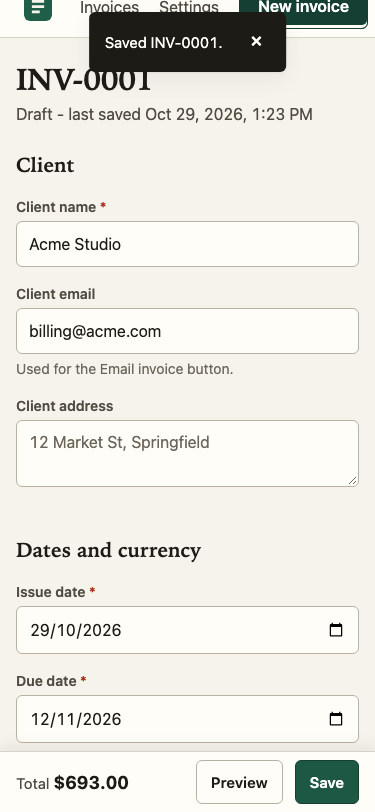
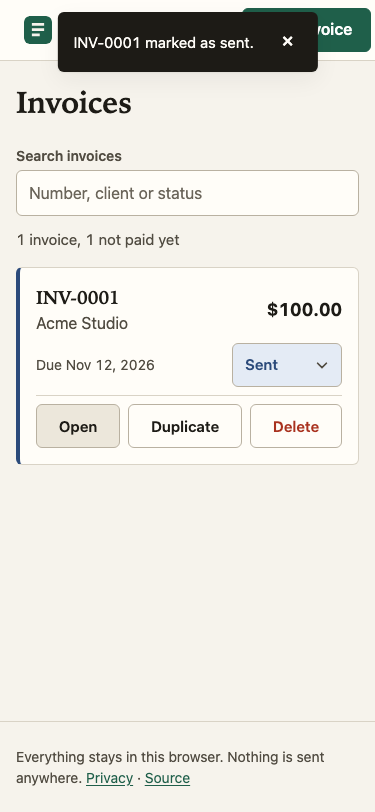
fix: QA round 2 - toast under the header on phones, draft survives restore and instant navigation, no stale draft after a fast save, settings form stays alive after a failed save, long words wrap in the invoice

diff --git a/js/app.js b/js/app.js
@@ -88,6 +88,7 @@
       var active = r.view === 'editor' ? key === 'new' : key === r.view;
       if (active) a.setAttribute('aria-current', 'page'); else a.removeAttribute('aria-current');
     });
+    if (editor && draftTimer) saveDraftNow();
     editor = null;
     settingsForm = null;
     if (r.view === 'editor') renderEditor(r.id);
@@ -477,6 +478,10 @@
     state.draft = { forId: editor.id, invoice: Calc.deepCopy(editor.invoice), savedAt: Date.now() };
     persist();
   }
+  function cancelDraftSave() {
+    clearTimeout(draftTimer);
+    draftTimer = null;
+  }
   function scheduleDraftSave() {
     clearTimeout(draftTimer);
     draftTimer = setTimeout(saveDraftNow, 250);
@@ -551,7 +556,7 @@
       state.invoices.push(inv);
     }
     state.draft = null;
-    clearTimeout(draftTimer);
+    cancelDraftSave();
     editor.id = inv.id;
     var saved = persist();
     if (saved) toast('Saved ' + inv.number + '.');
@@ -739,12 +744,14 @@
       invoicePrefix: String(s.invoicePrefix || ''),
       nextNumber: parseInt(s.nextNumber, 10)
     };
-    settingsForm = null;
     if (persist()) {
+      settingsForm = null;
       toast('Settings saved.');
       renderSettings();
       var saveBtn = $('#settings-form button[type=submit]');
       if (saveBtn) saveBtn.focus();
+    } else {
+      settingsForm.settings = Calc.deepCopy(state.settings);
     }
   }
 
@@ -763,11 +770,17 @@
   }
 
   function applyBackup(data) {
+    var draft = state.draft;
+    var keepDraft = draft && (draft.forId === null || data.invoices.some(function (i) { return i.id === draft.forId; }));
+    data.draft = keepDraft ? draft : null;
     state = data;
     settingsForm = null;
     pendingDelete = null;
-    if (persist()) {
-      renderSettings();
+    var ok = persist();
+    renderSettings();
+    var h = $('h1', main);
+    if (h) h.focus();
+    if (ok) {
       toast('Restored ' + data.invoices.length + (data.invoices.length === 1 ? ' invoice' : ' invoices') + ' and your settings.');
     }
   }
@@ -797,7 +810,7 @@
       if (n || businessSetUp()) {
         openDialog({
           title: 'Replace your current data?',
-          text: 'Restoring this backup replaces your settings' + (n ? ' and the ' + n + (n === 1 ? ' invoice' : ' invoices') + ' in this browser' : '') + ' with the ' + data.invoices.length + (data.invoices.length === 1 ? ' invoice' : ' invoices') + ' in the file. Download a backup of the current data first if you might need it.',
+          text: 'This browser holds your settings' + (n ? ' and ' + n + (n === 1 ? ' invoice' : ' invoices') : ' and no invoices') + '. Restoring replaces them with the backup (' + data.invoices.length + (data.invoices.length === 1 ? ' invoice' : ' invoices') + ' and its settings). An invoice you are still writing is kept. Download a backup of the current data first if you might need it.',
           confirmLabel: 'Replace with the backup',
           trigger: input
         }, function () { applyBackup(data); });
@@ -883,7 +896,7 @@
         break;
       }
       case 'scroll-preview': { var pt = $('.preview-title'); if (pt) { pt.scrollIntoView(); pt.focus({ preventScroll: true }); } break; }
-      case 'discard-draft': state.draft = null; persist(); render(); toast('Discarded the unsaved changes.'); break;
+      case 'discard-draft': cancelDraftSave(); state.draft = null; persist(); render(); toast('Discarded the unsaved changes.'); break;
       case 'print': ev.preventDefault(); printInvoice(); break;
       case 'copy-summary': copySummary(); break;
       case 'email':

diff --git a/css/styles.css b/css/styles.css
@@ -256,6 +256,7 @@ input[type="date"] { min-width: 0; }
 .doc-items th { font-size: 11px; font-weight: 700; text-transform: uppercase; letter-spacing: 0.08em; color: var(--ink-2); border-bottom: 1px solid #1d1b16; }
 .doc-items .num { text-align: right; white-space: nowrap; }
 .doc-items td:first-child { word-break: break-word; }
+.doc-from, .doc-billto, .doc-notes, .doc-foot { min-width: 0; overflow-wrap: anywhere; }
 .doc-empty { color: var(--ink-3); font-style: italic; }
 .doc-totals { display: flex; justify-content: flex-end; margin-bottom: var(--space-6); }
 .doc-totals dl { margin: 0; width: 100%; max-width: 280px; }
@@ -295,6 +296,7 @@ input[type="date"] { min-width: 0; }
 .toast-close { background: transparent; border: 0; color: var(--paper-2); font-size: 22px; line-height: 1; width: var(--control-h); height: var(--control-h); border-radius: var(--radius); cursor: pointer; }
 .toast-close:hover { background: rgba(255, 255, 255, 0.12); }
 .toast :focus-visible { outline-color: var(--paper-2); }
+@media (max-width: 899px) { .toast { top: calc(env(safe-area-inset-top, 0px) + 68px); } }
 @keyframes toast-in { from { opacity: 0; transform: translate(-50%, -8px); } to { opacity: 1; transform: translate(-50%, 0); } }
 
 /* Dialog */

diff --git a/scripts/qa-defects.py b/scripts/qa-defects.py
@@ -102,3 +102,60 @@ with open_page(375, 812) as (page, errors):
 
 fails = [k for k, v in results.items() if v.startswith("FAIL")]
 print("\nSUMMARY:", f"{len(results) - len(fails)}/{len(results)} pass", ("FAILS: " + ", ".join(fails)) if fails else "")
+
+# ---- Round 2 (D12-D19) ----
+def nav_free(page, label):
+    el = page.get_by_role("link", name=label).first
+    b = el.bounding_box()
+    hit = page.evaluate("([x,y]) => { var e = document.elementFromPoint(x, y); return e ? (e.closest('a') ? e.closest('a').textContent.trim() : e.tagName) : 'none'; }", [b["x"] + b["width"] / 2, b["y"] + b["height"] / 2])
+    return hit == label, hit
+
+with open_page(375, 812) as (page, errors):
+    setup(page)
+    page.wait_for_selector("#toast:not([hidden])"); page.evaluate("window.scrollTo(0, 0)")
+    ok, hit = nav_free(page, "Invoices"); check("D12 toast does not cover the nav at 375", ok, f"hit={hit}")
+    tb = page.locator("#toast").bounding_box(); check("D12 toast below the header at 375", tb and tb["y"] >= 60, f"y={tb and tb['y']}")
+    page.screenshot(path=str(OUT / "D12-toast-under-header-375.png"))
+    # D19 long single-word client name
+    page.goto(URL + "#/new"); page.wait_for_selector("#invoice-form"); page.fill("#f-clientName", "A" * 120)
+    w = page.evaluate("document.documentElement.scrollWidth"); check("D19 120-char client name fits at 375", w <= 375, f"scrollWidth={w}")
+    page.emulate_media(media="print"); w = page.evaluate("document.documentElement.scrollWidth"); check("D19 fits in print media at 375", w <= 375, f"scrollWidth={w}"); page.emulate_media(media="screen")
+    # D17 hash navigation right after typing keeps the keystrokes
+    page.fill("#f-clientName", "Quick Co"); page.fill("#item-desc-0", "Work"); page.wait_for_timeout(400)
+    page.type("#item-price-0", "778"); page.evaluate("location.hash = '#/invoices'"); page.wait_for_selector("h1")
+    page.goto(URL + "#/new"); page.wait_for_selector("#invoice-form")
+    check("D17 price kept after instant navigation", page.input_value("#item-price-0") == "778", page.input_value("#item-price-0"))
+    page.click("[data-action=discard-draft]")
+    # D18 save right after typing leaves no stale draft
+    page.fill("#f-clientName", "Fast Co"); page.fill("#item-desc-0", "Work"); page.wait_for_timeout(400)
+    page.type("#item-price-0", "55"); page.click("#invoice-form button[type=submit]"); page.wait_for_selector("#toast:not([hidden])")
+    page.wait_for_timeout(400); page.reload(); page.wait_for_selector("#invoice-form")
+    check("D18 no stale restored notice after fast save", page.locator("#restored-notice").count() == 0)
+    check("375 r2 console clean", not errors, str(errors))
+
+with open_page(1440, 900) as (page, errors):
+    setup(page)
+    # D14 wording with no invoices, D13 draft survives a restore
+    page.goto(URL + "#/new"); page.wait_for_selector("#invoice-form"); page.fill("#f-clientName", "Draft Client"); page.wait_for_timeout(400)
+    page.goto(URL + "#/settings"); page.wait_for_selector("#settings-form")
+    backup = json.dumps({"version": 1, "settings": {"businessName": "Backup Biz", "email": "b@b.test"}, "invoices": [{"id": "bk1", "number": "INV-0009", "status": "sent", "issueDate": "2026-10-01", "dueDate": "2026-10-15", "currency": "USD", "client": {"name": "Old Client", "email": "", "address": ""}, "items": [{"description": "x", "quantity": 1, "unitPrice": 10}], "taxRate": 0, "discount": {"type": "percent", "value": 0}, "notes": "", "createdAt": 1, "updatedAt": 1}]}).encode()
+    page.set_input_files("#f-restore", {"name": "b.json", "mimeType": "application/json", "buffer": backup}); page.wait_for_selector("#confirm-dialog[open]")
+    txt = page.inner_text("#confirm-text"); check("D14 dialog wording without invoices", "and no invoices" in txt and "1 invoice and its settings" in txt, txt)
+    page.click("#confirm-ok"); page.wait_for_selector("#toast:not([hidden])")
+    check("D13 focus on heading after replace", page.evaluate("document.activeElement && document.activeElement.tagName") == "H1")
+    page.goto(URL + "#/new"); page.wait_for_selector("#invoice-form")
+    check("D13 draft survives a restore", page.locator("#restored-notice").count() == 1 and page.input_value("#f-clientName") == "Draft Client")
+    check("1440 r2 console clean", not errors, str(errors))
+
+# D15 storage full: the settings form stays usable after a failed save
+with open_page(1440, 900) as (page, errors):
+    page.add_init_script(quota)
+    page.goto(URL + "#/settings"); page.wait_for_selector("#settings-form")
+    page.fill("#f-businessName", "Full Store Studio"); page.fill("#f-email", "f@s.test"); page.click("#settings-form button[type=submit]"); page.wait_for_timeout(200)
+    check("D15 banner after first failed save", page.is_visible("#banner"))
+    page.click("[data-action=dismiss-banner]"); page.fill("#f-businessName", "Full Store Studio 2"); page.click("#settings-form button[type=submit]"); page.wait_for_timeout(200)
+    check("D15 second save still reacts (banner back)", page.is_visible("#banner"))
+    check("D15 no page error", not [e for e in errors if e[0] == "pageerror"], str(errors))
+
+fails = [k for k, v in results.items() if v.startswith("FAIL")]
+print("\nSUMMARY R2:", f"{len(results) - len(fails)}/{len(results)} pass", ("FAILS: " + ", ".join(fails)) if fails else "")

diff --git a/qa/F2/notes.md b/qa/F2/notes.md
@@ -83,3 +83,95 @@ Console errors, page errors and failed requests: none in any scenario at either 
 ## Defect rows
 | D1 | F2: I double-clicked Save on a new invoice and got two invoices in the list, both numbered INV-0001 (same record stored twice). Repro: Settings saved, New invoice, client "Acme Studio", line "Logo design" 1 x 500, double-click Save (form button, or the bar Save at 375), open Invoices. | web 375 + desktop | todo | qa/F2/2026-10-29-s5-dblclick-1440.png | |
 | D2 | F2: if I refresh within about half a second of my last keystroke, what I just typed is missing from the restored draft (price empty at desktop; whole draft gone when everything was typed inside 0.4 s at 375) while the notice says my changes were restored. Repro: New invoice, type a unit price, reload immediately. | web 375 + desktop | todo | qa/F2/notes.md (section 4) | |
+
+## Round 2 (2026-10-29, commit d7c91f9)
+
+Same surface and method as round 1: headless Chromium through scripts/browser.py, a fresh context per scenario, 375x812 and 1440x900,
+business details saved in Settings first, then #/new. One replay script per width ran scenarios 1-7 plus the two defect repros; three
+probe runs isolated the new findings. Console errors, page errors and failed requests: none in any scenario at either width when the
+runs were serial (two browsers on the shared dev server at once produced ERR_CONNECTION_RESET on app.js / print.css; the affected
+scenarios were re-run one at a time and were clean, so that was the test setup, not the app).
+
+Verdict: still NOT verified. D7 and D8 are fixed. Three new defects: D12 (keystrokes lost when leaving the editor by in-app navigation
+within 250 ms), D13 ("Restored the changes you had not saved" shown after a successful Save plus reload), D14 (a long unbroken client
+name makes the editor and the print layout scroll sideways).
+
+### Replay of scenarios 1-7 (all as in round 1 unless noted)
+1. Blank editor: subtitle "Will be numbered INV-0001 when you save.", title "New invoice - Invoicer", preview INV-0001 with the business
+   name and email, totals $0.00, one line with its X disabled ("An invoice needs at least one line"), no horizontal overflow; at 375 the
+   bar sits at y 751-812 with Total $0.00; at 1440 the bar is hidden. The "Settings saved." toast still shows after navigating to #/new
+   (observation kept from round 1; visible in r2-totals-375.png over the Currency field).
+2. Empty submit (bar Save at 375, form Save at 1440): "Enter the client name.", "Describe this line.", "Enter a price of 0 or more.",
+   summary "Fix the 3 highlighted fields to save this invoice.", 3 aria-invalid fields, focus on the client name (in view at 375),
+   URL #/new, 0 invoices stored, list "No invoices yet".
+3. Totals (r2-totals-375.png, r2-errors-1440.png): "Acme" appeared in Bill to while typing; Logo design 1 x 500 = $500.00; Add line
+   focused the new description; Hours 2.5 x 80; percent 10; tax 10 -> $700.00 / -$70.00 / $63.00 / $693.00, bar $693.00. Fixed 50 ->
+   -$50.00 / $65.00 / $715.00, bar $715.00. Fixed 5000: preview clamps to -$700.00 / $0.00 / $0.00; Save: "The discount is more than
+   the subtotal.", focus on Discount, nothing saved. Due 2026-10-01: live error, Save: "The due date cannot be before the issue date.",
+   focus on Due date, nothing saved. Fixing both clears the errors. Remove line 2: $500.00 / -$50.00 / $45.00 / $495.00, focus on the
+   remaining description, its X disabled; re-add Hours and remove line 1 keeps Hours ($200.00); force-clicking the disabled X does nothing.
+4. Refresh mid-edit: after 0.7 s a reload restored every field (EUR, due 2026-11-20, fixed 50, both lines, notes), totals EUR 715.00,
+   bar EUR 715.00; Invoices and back without reload restores too; Discard them -> blank form, toast "Discarded the unsaved changes.",
+   draft null, reload stays blank.
+5. Save / re-save / second invoice: toast "Saved INV-0001.", URL #/edit/<id>, h1 INV-0001, subtitle "Draft - last saved ...", title
+   "INV-0001 - Invoicer", Back to invoices link, storage 1 invoice, nextNumber 2, draft null. Rename to "Acme Studio Ltd" and Save:
+   still INV-0001, one invoice, nextNumber 2. New invoice offered INV-0002 with a blank form; Beta Corp, Consulting 3 x 100 ->
+   "Saved INV-0002.", $300.00 / $30.00 / $330.00; list INV-0002 Beta Corp $330.00 then INV-0001 Acme Studio Ltd $693.00,
+   "2 invoices, 2 not paid yet". Reloading on the edit page straight after Save showed the restore notice: see D13.
+6. Keyboard: Enter in the client name on an invalid form runs validation, keeps the name, saves nothing; Enter on a valid form saves
+   one invoice; Enter pressed twice fast saves exactly one; Escape closes the toast. Tab order from the client name: email > address >
+   issue date (4 presses) > due date (4) > currency > description > qty > unit price > Add line > discount type > discount > tax rate >
+   notes > Save invoice > Download PDF > Copy summary > Email invoice > Privacy > Source > (wrap) skip link > Invoicer > Invoices >
+   Settings. Focus ring on Save via keyboard: 3px solid rgb(31,95,74), offset 2px, :focus-visible true.
+7. Unhappy inputs: qty 0 -> "Quantity must be more than 0.", focus on qty, not saved. Price -5 -> preview -$5.00 / -$0.50 / -$5.50,
+   Save: "Enter a price of 0 or more.", not saved. "abc" typed into qty leaves it empty, Save blocked with the quantity error.
+   1e3 -> $1,000.00. 10.005 x 2 -> $20.01. Due cleared -> live "Enter a valid due date." and "Due -" in the preview; issue cleared too
+   -> both errors, focus on issue date, Save blocked. 31/02/2026 typed into Due date -> value empty (badInput), Save blocked.
+   1000-character description saves, no overflow. 120-character unbroken description wraps at both widths. 120-character unbroken
+   client name does not: see D14. The list row truncates it with an ellipsis and stays 375 / 1440 wide.
+
+### D7 (double-click Save) - fixed (r2-dblclick-1440.png)
+Settings saved, New invoice, Acme Studio, Logo design 1 x 500, double-click Save (form button at 1440, bar Save at 375): URL #/edit/<id>,
+toast "Saved INV-0001.", storage holds exactly one invoice, nextNumber 2, the list shows one row "INV-0001 Acme Studio $550.00",
+"1 invoice, 1 not paid yet", the next new invoice is offered INV-0002. A triple-click on a second new invoice also saved once
+(INV-0001, INV-0002; nextNumber 3). Enter pressed twice fast (scenario 6) saved once. Same at both widths.
+
+### D8 (reload right after typing) - fixed (r2-restored-375.png)
+Client name and description filled, "77" typed into the unit price as keystrokes, page.reload() 11-19 ms after the last keystroke:
+the notice appeared and the restored draft had Quick Co / Fast line / 77. Name "Zed", description "Qx" and price "9" all typed as
+keystrokes inside 0.4 s then location.reload(): all three restored (the screenshot shows this draft after the price became 951).
+Same at both widths. The draft is now written 250 ms after the last keystroke and flushed on pagehide.
+
+### D12 (new): leaving the editor by in-app navigation within 250 ms of typing loses the keystrokes
+Name and description filled, 0.4 s pause, then "77" typed into the unit price and the Invoices link in the header tapped 42 ms (375)
+/ 58 ms (1440) after the last keystroke. Back on New invoice the notice says "Restored the changes you had not saved." but the unit
+price is empty; the name and description (older than 250 ms) are there. Browser Back 6-8 ms after typing "8" into a price of 77:
+the price came back as 77, not 778. With a 300 ms pause before tapping Invoices the price was kept (779). The pagehide flush added for
+D8 does not run on a hash change, and the pending 250 ms write is dropped when the editor is left. Same at both widths.
+Repro: New invoice, fill name and description, wait a second, type a unit price and immediately tap Invoices (or press Back), then
+open New invoice again.
+
+### D13 (new): "Restored the changes you had not saved" after a successful Save plus reload (r2-stale-notice-375.png)
+Client name and description filled, "500" typed into the unit price, Save tapped 25-27 ms later (bar Save at 375, form Save at 1440):
+toast "Saved INV-0001.", URL #/edit/<id>, storage draft null, 1 invoice. Reload on that page: h1 INV-0001, subtitle "Draft - last
+saved ...", and above the form the notice "Restored the changes you had not saved. Discard them"; storage now holds a draft for that
+id. The fields match the saved invoice, so nothing is lost; Discard them just removes the notice (toast "Discarded the unsaved
+changes.", data unchanged, still 1 invoice). The same notice appeared on a different invoice (INV-0001) opened from the list after
+saving INV-0003 fast, then reloading. With a 300 ms pause between the last keystroke and Save there was no notice after reload.
+Same at both widths. Repro: New invoice, type the price and tap Save right away, then reload.
+
+### D14 (new): a 120-character unbroken client name makes the editor scroll sideways (r2-longname-375.png)
+Client name of 120 "N" characters, Logo design 1 x 500: the page is 1305 px wide at 375 (preview Bill to name 1272 px wide, runs
+off the card) and 2139 px wide at 1440; still so after Save. In print media at 375 the page is 1437 px wide (the name would run off
+the printed page). A 76-character URL-like name (with dots and slashes) and the 120-character description wrap fine; the list row
+truncates the long name with an ellipsis. Repro: New invoice, paste a long word with no spaces as the client name, look at the preview.
+
+### Evidence files (round 2)
+2026-10-29-r2-totals-375.png, 2026-10-29-r2-errors-1440.png, 2026-10-29-r2-restored-375.png, 2026-10-29-r2-dblclick-1440.png,
+2026-10-29-r2-stale-notice-375.png, 2026-10-29-r2-longname-375.png. The replay and probe scripts lived in the session scratchpad and
+were not added to the repo.
+
+### Defect rows (round 2)
+| D12 | F2: I typed the unit price and tapped Invoices (or pressed Back) right away; when I came back the price was empty although the notice said my changes were restored. Repro: New invoice, fill name and description, wait a second, type a price and tap Invoices within a quarter second, open New invoice. | web 375 + desktop | todo | qa/F2/notes.md (Round 2, D12) | |
+| D13 | F2: I typed the price, tapped Save at once and got "Saved INV-0001."; after a refresh the page told me it restored changes I had not saved, with a Discard them button, although nothing was unsaved. Repro: New invoice, type the price and tap Save right away, then reload. | web 375 + desktop | todo | qa/F2/2026-10-29-r2-stale-notice-375.png | |
+| D14 | F2: a client name that is one long word with no spaces (120 characters) runs off the preview card and makes the whole editor scroll sideways on a phone and on desktop, and would run off the printed page. Repro: New invoice, paste a 120-character word as the client name. | web 375 + desktop + print | todo | qa/F2/2026-10-29-r2-longname-375.png | |

diff --git a/qa/F5/notes.md b/qa/F5/notes.md
@@ -106,3 +106,30 @@ missing and invalid client email handling with focus, keyboard path, no console 
 One minor defect filed:
 
 | D | F5: After I tap Copy summary with the buttons near the bottom of the screen, the black message pops up on top of Copy summary and Email invoice, so I have to close it or wait 7 seconds before I can tap Email invoice | web 375 + desktop | todo | qa/F5/2026-10-29-02-copy-toast-1440.png | |
+
+## Round 2 (2026-10-29, commit d7c91f9)
+
+Re-test after the fix "toasts now appear at the top of the screen so they never cover the Copy summary / Email invoice buttons or the footer". Same surface and driver as round 1 (Playwright through scripts/browser.py, headless Chromium, context permissions clipboard-read + clipboard-write, fresh context per width, 1440x900 and 375x812). 62 checks, 0 failed, plus a separate header probe at both widths.
+
+Result: the round-1 defect is fixed (the toast no longer covers the share buttons or the footer), and every round-1 scenario still passes. NOT verified at 375: the toast now sits on top of the header links (Invoices, Settings, New invoice) whenever the page is at the top. Defect row below.
+
+What I did and what I saw:
+
+1. Settings (Jane Doe Design, jane@example.com, tax 10), invoice INV-0001 for Acme Studio / billing@acme.com with "Logo design" 2 x 150 and "Brand guidelines" 1 x 400, 10% discount, tax pre-filled with 10, note. Saved (bar Save button at 375): title "INV-0001 - Invoicer", "Draft - last saved ...".
+2. Fix check. Scrolled so the share buttons sit at the bottom edge of the usable viewport (1440: buttons y 796-840 of 900; 375: buttons y 647-691 with "Back to invoices" under them and the bar at 751-812), clicked Copy summary. Toast "Summary copied. Mark INV-0001 as sent?" with Mark as sent, at y 12-72 (1440, x 470-970) and y 12-78 (375, x 16-359, two text lines), opacity 1, z-index 50. elementFromPoint at the centres of Copy summary and Email invoice returns those buttons, and at the centre of Mark as sent returns that button. Screenshots 2026-10-29-r2-copy-toast-bottom-1440.png and -375.png (looked at: toast at the top, both share buttons and the footer / bottom bar clear).
+3. Clipboard text identical to round 1, byte for byte, at both widths (Issued Oct 29, 2026, Due Nov 12, 2026, $693.00 total). Mark as sent: "INV-0001 marked as sent.", "Sent - last saved", list row Sent. Copy again on the sent invoice: "Summary copied." with no button, clipboard unchanged.
+4. Email invoice href: mailto:billing@acme.com, subject "Invoice INV-0001 from Jane Doe Design", body equal to the clipboard text with CRLF line breaks only, no raw spaces or newlines. Clicking it: page stays on #/edit/<id> with the form, toast "Opening your email app.", one headless requestfailed for the mailto: URL (expected), nothing else.
+5. Client email emptied, Email invoice: toast "Add a valid client email first, or copy the summary instead.", focus in the Client email field, page stays, href "mailto:?subject=..." with no address. "nope": same toast and focus. Both widths.
+6. Unsaved #/new ("Will be numbered INV-0002 when you save."), Beta Co, Consulting 3 x 80, Copy summary: "Summary copied." with no offer, clipboard identical to round 1 (no discount or notes lines), still on #/new.
+7. Keyboard, both widths (invoice set back to Draft from the list first): Copy summary and Email invoice 44 px tall and inside the viewport; Notes, Tab x3 = Save invoice, Download PDF, Copy summary; with the buttons scrolled to the bottom edge, Enter: toast with the offer at the top, buttons still hit-testable; Tab x5 (1440) / x7 (375) reaches Mark as sent with the toast still up and a 3 px rgb(255,253,248) ring; Enter: "INV-0001 marked as sent.", "Sent - ...", focus on the H1 at y 85 / 83.
+8. Header probe (what the top toast covers when the page is at the top). 1440: the toast (x 470-970 or 590-850) never touches the header links (x 952-1264); tapping New invoice while a toast shows opens #/new. 375, list page right after a status change (scrollY 0): toast x 57-318, y 12-72 lies over Invoices, Settings and the New invoice button (their centres hit the toast text or its X). A tap at the centre of New invoice hit the toast's X: the toast closed and the page stayed on #/invoices; the same tap after closing the toast opened #/new. 375, editor at the top right after Save or after Copy summary: toast x 89-286 covers Invoices and Settings, New invoice is still reachable. Screenshot 2026-10-29-r2-toast-covers-nav-375.png (looked at: the black toast sits over the header, only the burger icon and the right edge of the New invoice button are visible).
+9. Console / page errors / failed requests: none besides the headless mailto in step 4 (one per width).
+
+Observations (no defect):
+- The toast fades in over 200 ms (toast-in); a screenshot taken at once shows it at y 4 and translucent. Settled values are above.
+- At 1440 the toast overlaps the sticky "Preview" heading in the right column; the toast is on top (Mark as sent inside the overlap is hit-testable).
+- When the page is scrolled down, the header is off screen and the toast covers only the form content under it, which is not interactive at the top of the viewport in the cases tested.
+
+## Defects (round 2)
+
+| D | F5: On my phone, right after I save, change a status or copy the summary, the black message sits on top of the Invoices / Settings / New invoice links at the top of the page for 7 seconds; tapping New invoice there only closes the message (and Invoices / Settings do nothing) until I close it or wait | web 375 | todo | qa/F5/2026-10-29-r2-toast-covers-nav-375.png | |

diff --git a/qa/F4/notes.md b/qa/F4/notes.md
@@ -33,3 +33,24 @@ Extra unhappy paths (375, same build):
 3. A reload inside the undo window loses the undo (the delete is saved immediately).
 4. A spaces-only search switches the summary to "N of N invoices match" instead of the normal summary.
 5. At 375 the toast floats over the bottom row for 7 s; it is dismissable with the x or Escape.
+
+## Round 2 (2026-10-29, commit d7c91f9)
+
+Re-test after the fix "a spaces-only search no longer reports N of N match". Same surface and driver as round 1 (Playwright through scripts/browser.py, headless Chromium, fresh context per width, 375x812 and 1440x900, everything driven through the real UI). 84 checks, 42 per width, 0 failed.
+
+Result: verified at both widths. The round-1 observation 4 (spaces-only search) is fixed. One cross-flow observation at 375 (toast over the header links) is filed under F5, where the toast move was made.
+
+What I did and what I saw:
+
+1. Fresh user, #/invoices: "No invoices yet", "Create your first invoice...", Create an invoice button, Settings tip, no search box and no summary. The button opens #/new.
+2. Settings saved, INV-0001 Acme Studio $550.00, INV-0002 Northwind Traders $214.50 (two lines), INV-0003 Blue Harbour Consulting $396.00 through the editor. List newest first, every row with number, client, "Due Nov 12, 2026", total, Draft select, Open / Duplicate / Delete; "3 invoices, 3 not paid yet".
+3. INV-0002 to Sent and INV-0001 to Paid through the selects: toasts, blue and green row classes, "3 invoices, 2 not paid yet", all kept after reload. Due date before the issue date refused with "The due date cannot be before the issue date." and nothing saved (row still Nov 12, no badge). Issue 2 weeks ago + due last week on INV-0002 and INV-0001: OVERDUE badge on the sent INV-0002 only, none on the paid INV-0001 or on INV-0003, statuses untouched. 2026-10-29-r2-list-overdue-375.png (looked at: badge under the Northwind due date, blue Sent, green Paid; the "Saved INV-0001." toast from the editor is still showing at the top over the header, see F5 round 2).
+4. Duplicate INV-0001: INV-0004 first, Draft, Acme Studio, $550.00, issued today, due in 7 days (the original's span), identical items; the original is byte-identical before and after; "4 invoices, 3 not paid yet"; toast "Duplicated as INV-0004." with Open, which loads the duplicate's editor (h1 INV-0004, client Acme Studio).
+5. Delete INV-0003: row gone at once, "3 invoices, 2 not paid yet", toast with Undo; Undo after 2 s: "Restored INV-0003.", row back in position 2, 4 invoices in storage. Deleted again, after 8 s the toast is gone and after a reload the invoice is gone, "3 invoices, 2 not paid yet".
+6. Search typed into the box: "nor" and "0002" give Northwind, "paid" gives INV-0001, "sent" gives INV-0002, each "1 of 3 invoices match"; "  ACME " gives INV-0004 and INV-0001, "2 of 3 invoices match"; "zzz" gives no rows, "0 of 3 invoices match", the box 'No invoices match "zzz". Try a number like INV-0001, part of the client name, or a status.' with Clear search, which empties and focuses the box, shows all rows and "3 invoices, 2 not paid yet". Reload with "north" typed: the box comes back empty with all rows. Delete inside the "north" filter: no-match box, "0 of 2 invoices match", Undo brings the row back into the filtered view with the search kept.
+   Fix check: three spaces in the box show all three rows with the normal "3 invoices, 2 not paid yet" line, a single space the same; "  nor" still filters to Northwind ("1 of 3 invoices match"); deleting back to spaces only returns the normal line. 2026-10-29-r2-spaces-search-1440.png and -375.png (looked at: box with the spaces and the native clear x, normal summary, three rows).
+7. Keyboard from the INV-0004 number link: Tab goes status select, Open, Duplicate, Delete, INV-0002's number link, every stop :focus-visible with a solid 3 px outline; "p" on the focused select marks INV-0004 Paid with its toast; Escape closes the toast; Enter on the number link opens the editor.
+8. 375 with a 78-character client name on INV-0004: page scrollWidth 375, every row inside its box, right edge 359, the client name ellipsised, selects and buttons 44 px, search box 46 px.
+9. Deleting the remaining three: the empty state (no Settings tip, business is set up) appears right after the last Delete with "Deleted INV-0001." and Undo still offered; after 8 s and a reload the list is empty and storage holds 0 invoices.
+10. Toast on the list now sits at the top: 1440 x 590-850, 375 x 58-317, y 12-72 at both; the search box is never covered. At 375 it covers the header links Invoices, Settings and New invoice while the page is at the top (measured here and reproduced with a tap in F5 round 2; filed there as a D row with qa/F5/2026-10-29-r2-toast-covers-nav-375.png). Round-1 observation 5 (toast over the bottom row at 375) no longer applies.
+11. Console errors/warnings, page errors, failed requests: none at either width.

diff --git a/qa/F3/notes.md b/qa/F3/notes.md
@@ -23,3 +23,25 @@ Date: 2026-10-29. Commit: 524f5ab. Surface: http://127.0.0.1:8080/ in headless C
 ## Files
 
 settings-1440, editor-saved-1440, after-print-1440, after-print-375, print-1440, print-375, print-unsaved-1440, print-fresh-1440, print-fresh-375, invoice.pdf, pdf-page1, editor-40-1440, print-40-1440, invoice-40-items.pdf, pdf40-page1..3 (all prefixed 2026-10-29-).
+
+## Round 2 (2026-10-29, commit d7c91f9)
+
+Re-test after the fix "the invoice number is the document title on any print, including Cmd+P". Same surface and driver as round 1 (Playwright through scripts/browser.py, headless Chromium, fresh context per run, 1440x900 and 375x812). 55 checks, 0 failed.
+
+Result: verified at both widths. The round-1 defect (Cmd+P suggested "INV-0001 - Invoicer.pdf") is fixed.
+
+What I did and what I saw:
+
+1. Fresh user, Settings with name, two-line address, email, tax 10 and a 120x48 PNG logo (stored as a data: URL), then a 3-line invoice with 10% discount and two-line notes, saved as INV-0001 (title "INV-0001 - Invoicer"). Both widths.
+2. Download PDF button: window.print(), beforeprint and afterprint hooks logged the title as exactly "INV-0001" at print() and at beforeprint, "INV-0001 - Invoicer" at afterprint and 2.3 s later. Both widths.
+3. Fix check, Cmd+P path (window.print() NOT started by the button, 2 s after the previous print so Chromium does not throttle it): beforeprint title "INV-0001", afterprint and final title "INV-0001 - Invoicer". Dispatching the bare events gives the same: after beforeprint the title is "INV-0001", after afterprint it is back. Two beforeprints followed by one afterprint still end restored; a stray afterprint with no beforeprint leaves the title alone. Both widths.
+4. Unsaved invoice on #/new (client "Beta Co" typed): the button and Cmd+P both print with the title "INV-0002" and restore "New invoice - Invoicer"; the print page shows INV-0002 and Beta Co and nothing else; the page stays on #/new. Both widths.
+5. Invoice list page, Cmd+P: the title stays "Invoices - Invoicer" through beforeprint and afterprint (no invoice number borrowed from an invoice opened earlier). Both widths.
+6. Print media (emulated): header, nav, form, footer, mobile bar, toast, "Preview" heading, banner, skip link, dialog and notices all have no box; body text equals the invoice text (542 chars); scrollWidth 1440 / 375, nothing clipped; the logo is 120x48 and loaded. Screenshots 2026-10-29-r2-print-1440.png and 2026-10-29-r2-print-375.png (looked at: logo, business block, INVOICE, number and dates, bill-to, 3 rows, totals $930.60, notes, footer line; at 375 the header stacks and the table still fits). Emulating screen again brings the UI back.
+7. page.pdf (A4, backgrounds): 1 page, 596x843 pt, 1 embedded image, all invoice text extractable. Same from the 375 viewport.
+8. 40-line invoice typed through the editor (row 21 has a 230-character description), 10% discount, 3-line notes: PDF has 3 pages, rows 1-15 / 16-36 / 37-40; the DESCRIPTION/QTY/UNIT PRICE/AMOUNT header is on every page; every row's description and amount are on the same page (none split); the long description wraps inside its row on page 2; totals, the three notes lines and the footer are on page 3. 2026-10-29-r2-pdf40-page1-1440.png (looked at: page 1 ends cleanly after row 15 with margin left over).
+9. Brand-new user with no settings, 375, straight to New invoice, Download PDF: title "INV-0001" at print time, restored after, no errors.
+10. Console errors/warnings, page errors, failed requests: none in any run.
+
+Observations (no defect):
+- Chromium logs the warning "Ignoring too frequent calls to print()" and shows no second dialog when print() is called again within about a second (my first script run did this; a user double-clicking Download PDF gets one dialog and no error).
